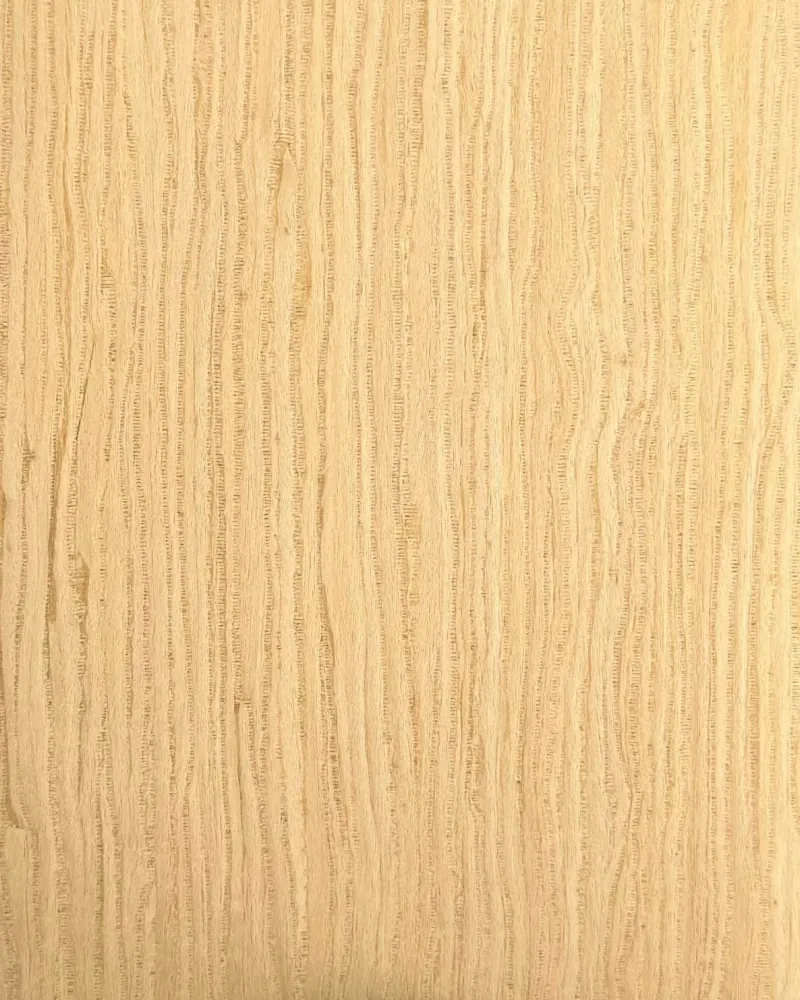
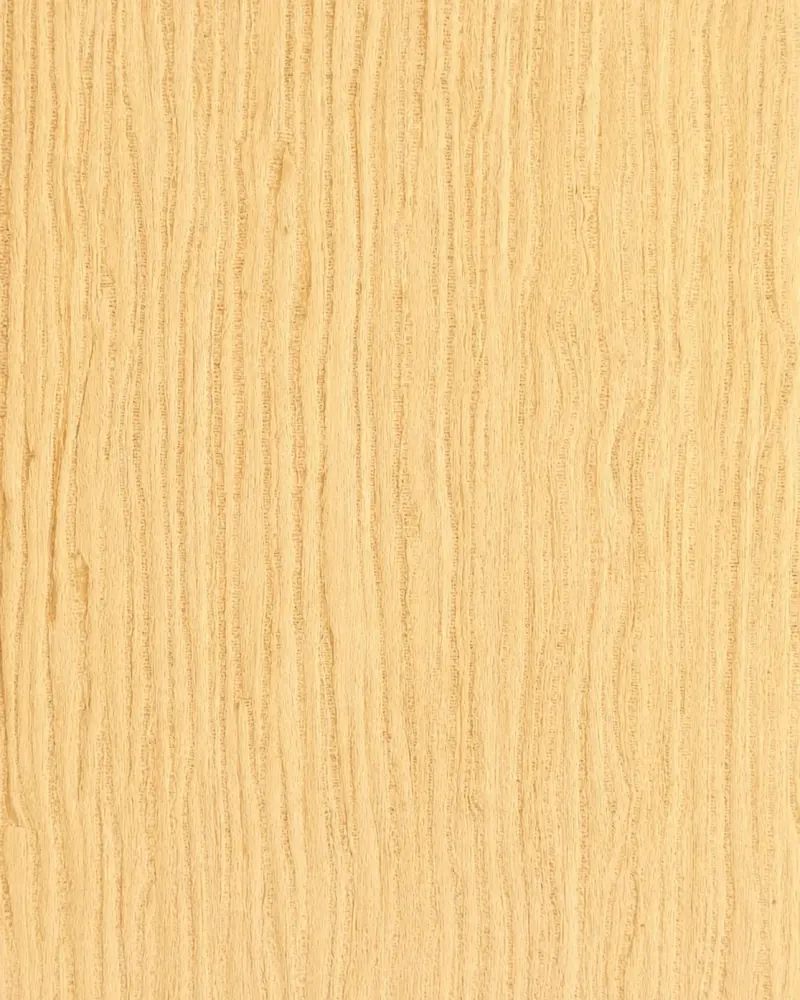
Use a lighter, even photograph for the Cairo Nismu Natural swatch
Replaces the sheet added in 844e0fe with a cleaner shot of the same
veneer, cropped to 4:5. The address moves to ?v=3 so browsers drop the
previous picture.

diff --git a/src/data.js b/src/data.js
@@ -1927,7 +1927,7 @@ export const PRODUCTS = [
     tones: ['warm'],
     species: 'Oak or Ash',
     idSpecies: 'Oak atau Ash',
-    image: '/assets/image/CAIRO NISMU NATURAL.webp?v=2',
+    image: '/assets/image/CAIRO NISMU NATURAL.webp?v=3',
     bestFor: 'Tactile focal points, modern rustic interiors, custom built-ins',
     idBestFor: 'titik fokus taktil, interior rustic modern, perabot tanam custom',
     finish: 'Raw matte',
